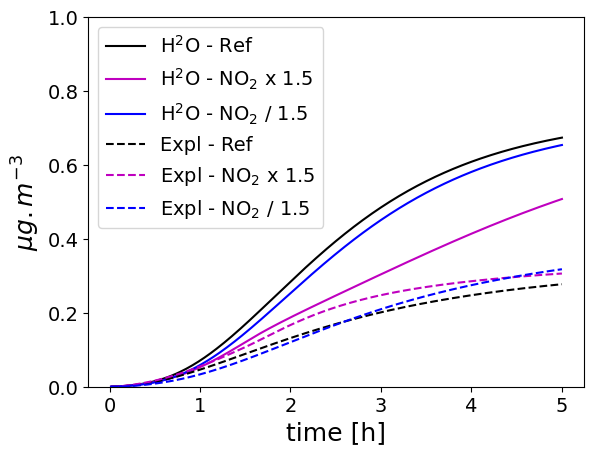
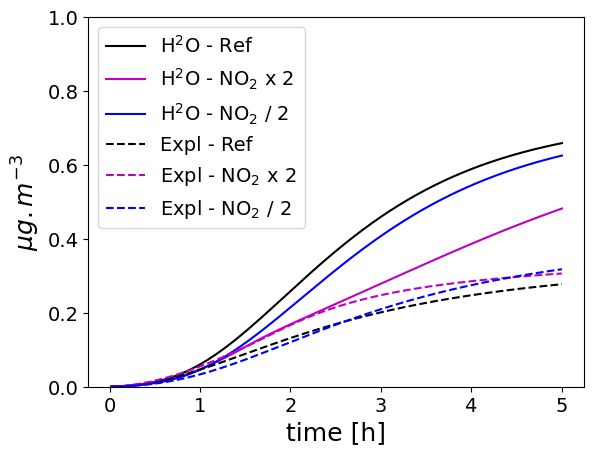
Correct legend of figures

diff --git a/graph/plot_vocox_monoterp_h2o-noautox.py b/graph/plot_vocox_monoterp_h2o-noautox.py
@@ -82,11 +82,11 @@ plt.ylim(0.,1.5)
 
 #plt.plot(time, totsoa,'k-',label='total')
 plt.plot(time, tol,color='k',label='H$^2$O - No autox.- Ref')
-plt.plot(time, tolmNO2,'m',label='H$^2$O - No autox.- NO$_2$ x 1.5')
-plt.plot(time, toldNO2,'b',label='H$^2$O - No autox.- NO$_2$ / 1.5')
+plt.plot(time, tolmNO2,'m',label='H$^2$O - No autox.- NO$_2$ x 2')
+plt.plot(time, toldNO2,'b',label='H$^2$O - No autox.- NO$_2$ / 2')
 plt.plot(time, tolcompl,color='k', linestyle='dashed',label='Expl - Ref')
-plt.plot(time, tolcomplmNO2,'m',linestyle='dashed',label='Expl - NO$_2$ x 1.5')
-plt.plot(time, tolcompldNO2,'b',linestyle='dashed',label='Expl - NO$_2$ / 1.5')
+plt.plot(time, tolcomplmNO2,'m',linestyle='dashed',label='Expl - NO$_2$ x 2')
+plt.plot(time, tolcompldNO2,'b',linestyle='dashed',label='Expl - NO$_2$ / 2')
 plt.ylabel("$\mu g.m^{-3}$", fontsize=18)
 plt.xlabel("time [h]", fontsize=18)
 plt.legend(loc=2)

diff --git a/graph/plot_vocox_monoterp_h2o.py b/graph/plot_vocox_monoterp_h2o.py
@@ -82,11 +82,11 @@ plt.ylim(0.,1.5)
 
 #plt.plot(time, totsoa,'k-',label='total')
 plt.plot(time, tol,color='k',label='H$^2$O - Ref')
-plt.plot(time, tolmNO2,'m',label='H$^2$O - NO$_2$ x 1.5')
-plt.plot(time, toldNO2,'b',label='H$^2$O - NO$_2$ / 1.5')
+plt.plot(time, tolmNO2,'m',label='H$^2$O - NO$_2$ x 2')
+plt.plot(time, toldNO2,'b',label='H$^2$O - NO$_2$ / 2')
 plt.plot(time, tolcompl,color='k', linestyle='dashed',label='Expl - Ref')
-plt.plot(time, tolcomplmNO2,'m',linestyle='dashed',label='Expl - NO$_2$ x 1.5')
-plt.plot(time, tolcompldNO2,'b',linestyle='dashed',label='Expl - NO$_2$ / 1.5')
+plt.plot(time, tolcomplmNO2,'m',linestyle='dashed',label='Expl - NO$_2$ x 2')
+plt.plot(time, tolcompldNO2,'b',linestyle='dashed',label='Expl - NO$_2$ / 2')
 plt.ylabel("$\mu g.m^{-3}$", fontsize=18)
 plt.xlabel("time [h]", fontsize=18)
 plt.legend(loc=2)

diff --git a/graph/plot_vocox_naph.py b/graph/plot_vocox_naph.py
@@ -81,11 +81,11 @@ plt.ylim(0.,0.2)
 
 #plt.plot(time, totsoa,'k-',label='total')
 plt.plot(time, tol,color='k',label='H$^2$O - Ref')
-plt.plot(time, tolmNO2,'m',label='H$^2$O - NO$_2$ x 1.5')
-plt.plot(time, toldNO2,'b',label='H$^2$O - NO$_2$ / 1.5')
+plt.plot(time, tolmNO2,'m',label='H$^2$O - NO$_2$ x 2')
+plt.plot(time, toldNO2,'b',label='H$^2$O - NO$_2$ / 2')
 plt.plot(time, tolcompl,color='k', linestyle='dashed',label='Expl - Ref')
-plt.plot(time, tolcomplmNO2,'m',linestyle='dashed',label='Expl - NO$_2$ x 1.5')
-plt.plot(time, tolcompldNO2,'b',linestyle='dashed',label='Expl - NO$_2$ / 1.5')
+plt.plot(time, tolcomplmNO2,'m',linestyle='dashed',label='Expl - NO$_2$ x 2')
+plt.plot(time, tolcompldNO2,'b',linestyle='dashed',label='Expl - NO$_2$ / 2')
 plt.ylabel("$\mu g.m^{-3}$", fontsize=18)
 plt.xlabel("time [h]", fontsize=18)
 plt.legend(loc=2)

diff --git a/graph/plot_vocox_sesqui.py b/graph/plot_vocox_sesqui.py
@@ -81,11 +81,11 @@ plt.ylim(0.,1.)
 
 #plt.plot(time, totsoa,'k-',label='total')
 plt.plot(time, tol,color='k',label='H$^2$O - Ref')
-plt.plot(time, tolmNO2,'m',label='H$^2$O - NO$_2$ x 1.5')
-plt.plot(time, toldNO2,'b',label='H$^2$O - NO$_2$ / 1.5')
+plt.plot(time, tolmNO2,'m',label='H$^2$O - NO$_2$ x 2')
+plt.plot(time, toldNO2,'b',label='H$^2$O - NO$_2$ / 2')
 plt.plot(time, tolcompl,color='k', linestyle='dashed',label='Expl - Ref')
-plt.plot(time, tolcomplmNO2,'m',linestyle='dashed',label='Expl - NO$_2$ x 1.5')
-plt.plot(time, tolcompldNO2,'b',linestyle='dashed',label='Expl - NO$_2$ / 1.5')
+plt.plot(time, tolcomplmNO2,'m',linestyle='dashed',label='Expl - NO$_2$ x 2')
+plt.plot(time, tolcompldNO2,'b',linestyle='dashed',label='Expl - NO$_2$ / 2')
 plt.ylabel("$\mu g.m^{-3}$", fontsize=18)
 plt.xlabel("time [h]", fontsize=18)
 plt.legend(loc=2)

diff --git a/graph/plot_vocox_toluene_h2o.py b/graph/plot_vocox_toluene_h2o.py
@@ -82,11 +82,11 @@ plt.ylim(0.,1.)
 
 #plt.plot(time, totsoa,'k-',label='total')
 plt.plot(time, tol,color='k',label='H$^2$O - Ref')
-plt.plot(time, tolmNO2,'m',label='H$^2$O - NO$_2$ x 1.5')
-plt.plot(time, toldNO2,'b',label='H$^2$O - NO$_2$ / 1.5')
+plt.plot(time, tolmNO2,'m',label='H$^2$O - NO$_2$ x 2')
+plt.plot(time, toldNO2,'b',label='H$^2$O - NO$_2$ / 2')
 plt.plot(time, tolcompl,color='k', linestyle='dashed',label='Expl - Ref')
-plt.plot(time, tolcomplmNO2,'m',linestyle='dashed',label='Expl - NO$_2$ x 1.5')
-plt.plot(time, tolcompldNO2,'b',linestyle='dashed',label='Expl - NO$_2$ / 1.5')
+plt.plot(time, tolcomplmNO2,'m',linestyle='dashed',label='Expl - NO$_2$ x 2')
+plt.plot(time, tolcompldNO2,'b',linestyle='dashed',label='Expl - NO$_2$ / 2')
 plt.ylabel("$\mu g.m^{-3}$", fontsize=18)
 plt.xlabel("time [h]", fontsize=18)
 plt.legend(loc=2)

diff --git a/graph/plot_vocox_monoterp_rdc.py b/graph/plot_vocox_monoterp_rdc.py
@@ -82,11 +82,11 @@ plt.ylim(0.,1.5)
 
 #plt.plot(time, totsoa,'k-',label='total')
 plt.plot(time, tolcompl,color='k',label='Rdc - Ref')
-plt.plot(time, tolcomplmNO2,'m',label='Rdc - NO$_2$ x 1.5')
-plt.plot(time, tolcompldNO2,'b',label='Rdc - NO$_2$ / 1.5')
+plt.plot(time, tolcomplmNO2,'m',label='Rdc - NO$_2$ x 2')
+plt.plot(time, tolcompldNO2,'b',label='Rdc - NO$_2$ / 2')
 plt.plot(time, tol,color='k', linestyle='dashed',label='Expl. - Ref')
-plt.plot(time, tolmNO2,'m', linestyle='dashed',label='Expl. - NO$_2$ x 1.5')
-plt.plot(time, toldNO2,'b', linestyle='dashed',label='Expl. - NO$_2$ / 1.5')
+plt.plot(time, tolmNO2,'m', linestyle='dashed',label='Expl. - NO$_2$ x 2')
+plt.plot(time, toldNO2,'b', linestyle='dashed',label='Expl. - NO$_2$ / 2')
 plt.ylabel("$\mu g.m^{-3}$", fontsize=18)
 plt.xlabel("time [h]", fontsize=18)
 plt.legend(loc=2)

diff --git a/graph/plot_vocox_toluene_rdc.py b/graph/plot_vocox_toluene_rdc.py
@@ -81,11 +81,11 @@ plt.ylim(0.,1.)
 
 #plt.plot(time, totsoa,'k-',label='total')
 plt.plot(time, tol,color='k',label='Rdc - Ref')
-plt.plot(time, tolmNO2,'m',label='Rdc - NO$_2$ x 1.5')
-plt.plot(time, toldNO2,'b',label='Rdc - NO$_2$ / 1.5')
+plt.plot(time, tolmNO2,'m',label='Rdc - NO$_2$ x 2')
+plt.plot(time, toldNO2,'b',label='Rdc - NO$_2$ / 2')
 plt.plot(time, tolcompl,color='k', linestyle='dashed',label='Expl. - Ref')
-plt.plot(time, tolcomplmNO2,'m',linestyle='dashed',label='Expl. - NO$_2$ x 1.5')
-plt.plot(time, tolcompldNO2,'b',linestyle='dashed',label='Expl. - NO$_2$ / 1.5')
+plt.plot(time, tolcomplmNO2,'m',linestyle='dashed',label='Expl. - NO$_2$ x 2')
+plt.plot(time, tolcompldNO2,'b',linestyle='dashed',label='Expl. - NO$_2$ / 2')
 plt.ylabel("$\mu g.m^{-3}$", fontsize=18)
 plt.xlabel("time [h]", fontsize=18)
 plt.legend(loc=2)
